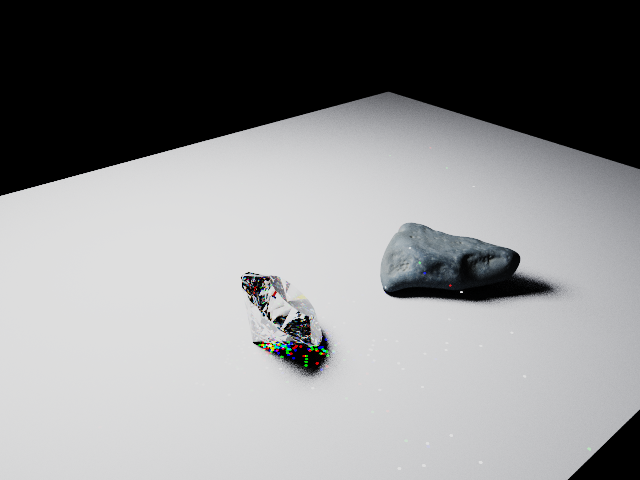
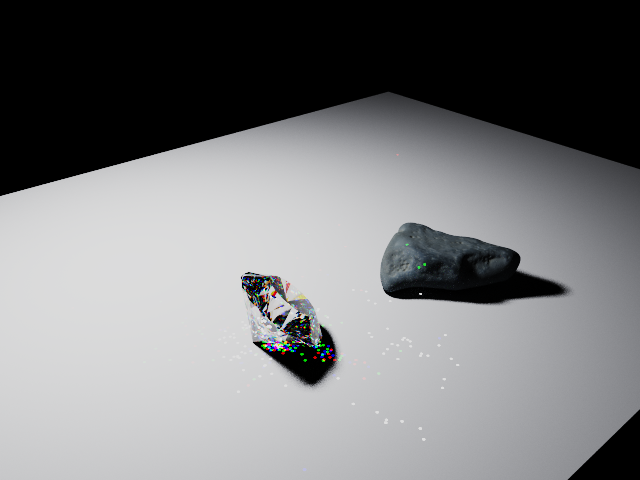
Add causticBoost parameter for enhanced caustic effects; update scene and loader for new settings

Changed region(s): [[0.3125, 0.1875, 1.0, 1.0], [0.375, 0.5625, 0.5312, 0.8125]]

diff --git a/Project2/src/scene/Scene.hpp b/Project2/src/scene/Scene.hpp
@@ -54,6 +54,10 @@ public:
     const class PhotonMap* causticMap = nullptr;
     int      causticPhotonCount = 0;        // 0 disables the photon pass
     float    causticGatherRadius = 0.006f;
+    // Artistic multiplier on the photon-map caustic contribution. Defaults
+    // to 1.0 (physical). Bump above 1 for the stylised "diamond glow" look
+    // when the area-light geometry can't deliver enough focused energy.
+    float    causticBoost = 1.0f;
 
     Scene(int w, int h) : width(w), height(h) {}
 

diff --git a/Project2/src/scene/Scene.cpp b/Project2/src/scene/Scene.cpp
@@ -453,7 +453,7 @@ Vector3f Scene::castRay(const Ray& ray, int depth, int* pathFlags) const
     if (causticMap && causticMap->size() > 0) {
         Vector3f fluxDensity = causticMap->estimateFluxDensity(hitPoint, N,
                                                                 causticGatherRadius);
-        causticLight = fluxDensity * surfaceCol * (1.0f / static_cast<float>(M_PI));
+        causticLight = fluxDensity * surfaceCol * (causticBoost / static_cast<float>(M_PI));
     }
 
     return directLight + indirectLight + causticLight;

diff --git a/Project2/src/scene/SceneLoader.cpp b/Project2/src/scene/SceneLoader.cpp
@@ -251,6 +251,7 @@ private:
             else if (f == "toneMap")  d.toneMap = parseBool();
             else if (f == "causticPhotons")        d.causticPhotons = parseInt();
             else if (f == "causticGatherRadius")   d.causticGatherRadius = parseNum();
+            else if (f == "causticBoost")          d.causticBoost = parseNum();
             else errorAt("unknown render field: " + f);
         }
     }
@@ -661,6 +662,7 @@ LoadedScene SceneLoader::load(const std::string& sceneDir,
     scene->backgroundColor = desc.background;
     scene->causticPhotonCount = std::max(0, desc.causticPhotons);
     scene->causticGatherRadius = std::max(1e-5f, desc.causticGatherRadius);
+    scene->causticBoost = std::max(0.0f, desc.causticBoost);
     scene->outputBaseName  = "output/" + viewName;
 
     std::unordered_map<std::string, Texture*> textureCache;

diff --git a/Project2/src/scene/SceneLoader.hpp b/Project2/src/scene/SceneLoader.hpp
@@ -86,6 +86,7 @@ struct SceneDescriptor {
     Vector3f background = {0.0f, 0.0f, 0.0f};
     int      causticPhotons = 0;            // 0 disables caustic photon mapping
     float    causticGatherRadius = 0.006f;  // photon-map lookup radius
+    float    causticBoost = 1.0f;           // artistic multiplier on caustic energy
 };
 
 // CLI / runtime knobs that win over the .scene file when set. Built by